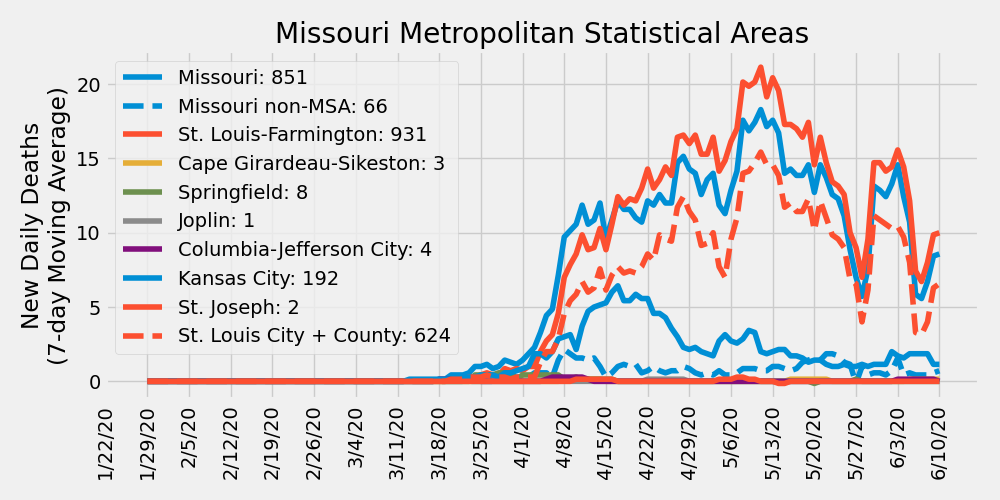
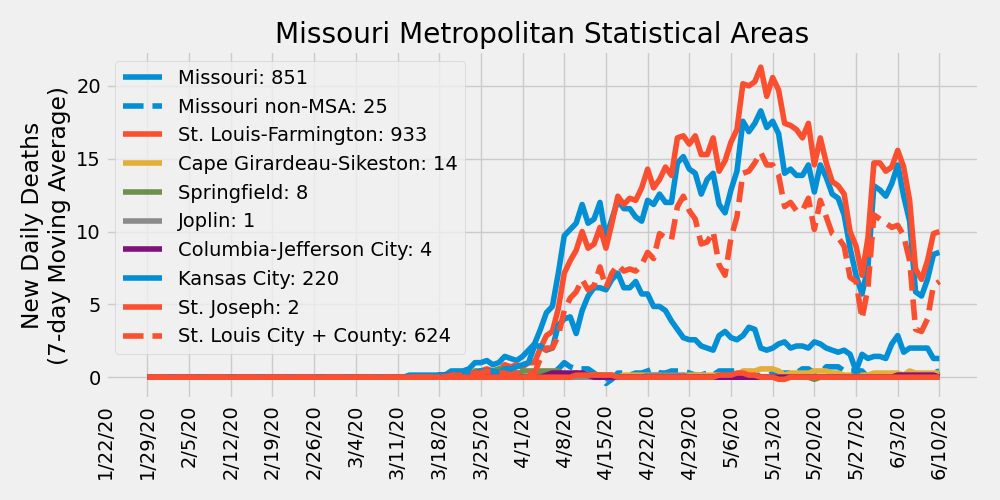
updating msa definitions and updating data 6/11/2020

diff --git a/ajvogt-analysis/missouri_analysis.md b/ajvogt-analysis/missouri_analysis.md
@@ -22,7 +22,7 @@ Legend shows cumulative confirmed cases
 | St. Louis-Farmington | Missouri | St. Charles |
 | St. Louis-Farmington | Missouri | St. Louis |
 | St. Louis-Farmington | Missouri | St. Louis City |
-| St. Louis-Farmington | Missouri | Farmington |
+| St. Louis-Farmington | Missouri | St. Francois |
 | St. Louis-Farmington | Illinois | Monroe |
 | St. Louis-Farmington | Illinois | St. Clair |
 | St. Louis-Farmington | Illinois | Madison |
@@ -34,7 +34,7 @@ Legend shows cumulative confirmed cases
 | Cape Girardeau-Sikeston | Missouri | Cape Girardeau |
 | Cape Girardeau-Sikeston | Missouri | Bollinger |
 | Cape Girardeau-Sikeston | Illinois | Alexander |
-| Cape Girardeau-Sikeston | Missouri | Sikeston |
+| Cape Girardeau-Sikeston | Missouri | Scott |
 | Springfield | Missouri | Greene |
 | Springfield | Missouri | Christian |
 | Springfield | Missouri | Webster |
@@ -49,6 +49,7 @@ Legend shows cumulative confirmed cases
 | Columbia-Jefferson City | Missouri | Cole |
 | Columbia-Jefferson City | Missouri | Callaway |
 | Columbia-Jefferson City | Missouri | Osage |
+| Kansas City | Missouri | Kansas City |
 | Kansas City | Missouri | Jackson |
 | Kansas City | Missouri | Clay |
 | Kansas City | Missouri | Cass |
